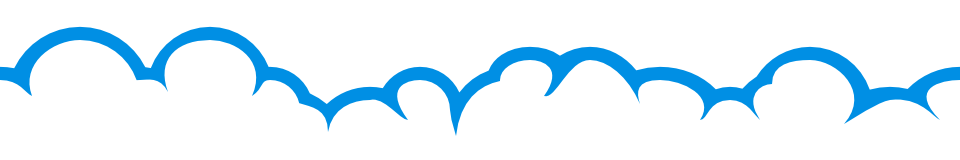
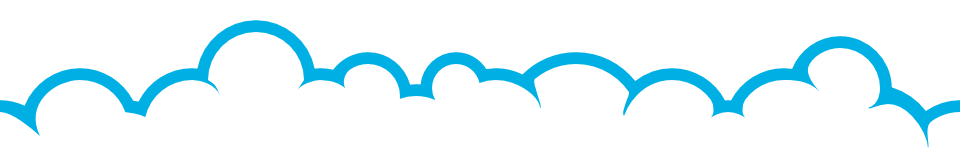
Rocket now scaled. Tweaked cloudtile

Changed region(s): [[0.0, 0.125, 1.0, 0.8438], [0.625, 0.625, 0.6562, 0.6875]]

diff --git a/ShokoRocket/src/uk/danishcake/shokorocket/animation/BackgroundDrawer.java b/ShokoRocket/src/uk/danishcake/shokorocket/animation/BackgroundDrawer.java
@@ -42,7 +42,7 @@ public class BackgroundDrawer {
 			mCloudA = BitmapFactory.decodeStream(context.getAssets().open("Bitmaps/Game/CloudA.png"));
 			mCloudB = BitmapFactory.decodeStream(context.getAssets().open("Bitmaps/Game/CloudB.png"));
 			mCloudC = BitmapFactory.decodeStream(context.getAssets().open("Bitmaps/Game/CloudC.png"));
-			mRocket = BitmapFactory.decodeStream(context.getAssets().open("Bitmaps/Game/RocketLaunch.png"));
+			Bitmap rocket = BitmapFactory.decodeStream(context.getAssets().open("Bitmaps/Game/RocketLaunch.png"));
 			
 			//Scale up gradient
 			//Create scaled background image while preserving 800x480 aspect
@@ -54,6 +54,14 @@ public class BackgroundDrawer {
 			p.setDither(true);
 			p.setFilterBitmap(true);
 			canvas.drawBitmap(background_gradient, new Rect(0, 0, 800, 480), new Rect(0, 0, mWidth, mGradientHeight), p);
+			
+			float uniform_scale = (float)mWidth / 480.0f;
+			mRocket = Bitmap.createBitmap((int)(rocket.getWidth() * uniform_scale), (int)(rocket.getHeight() * uniform_scale), Bitmap.Config.ARGB_8888);
+			canvas = new Canvas(mRocket);
+			canvas.drawBitmap(rocket, new Rect(0, 0, rocket.getWidth(), rocket.getHeight()), new Rect(0, 0, mRocket.getWidth(), mRocket.getHeight()), p);
+			
+			
+			
 			
 			mCloudAX = mWidth * 1000 * 2 / 10;
 			mCloudBX = mWidth * 1000 * 3 / 10;
